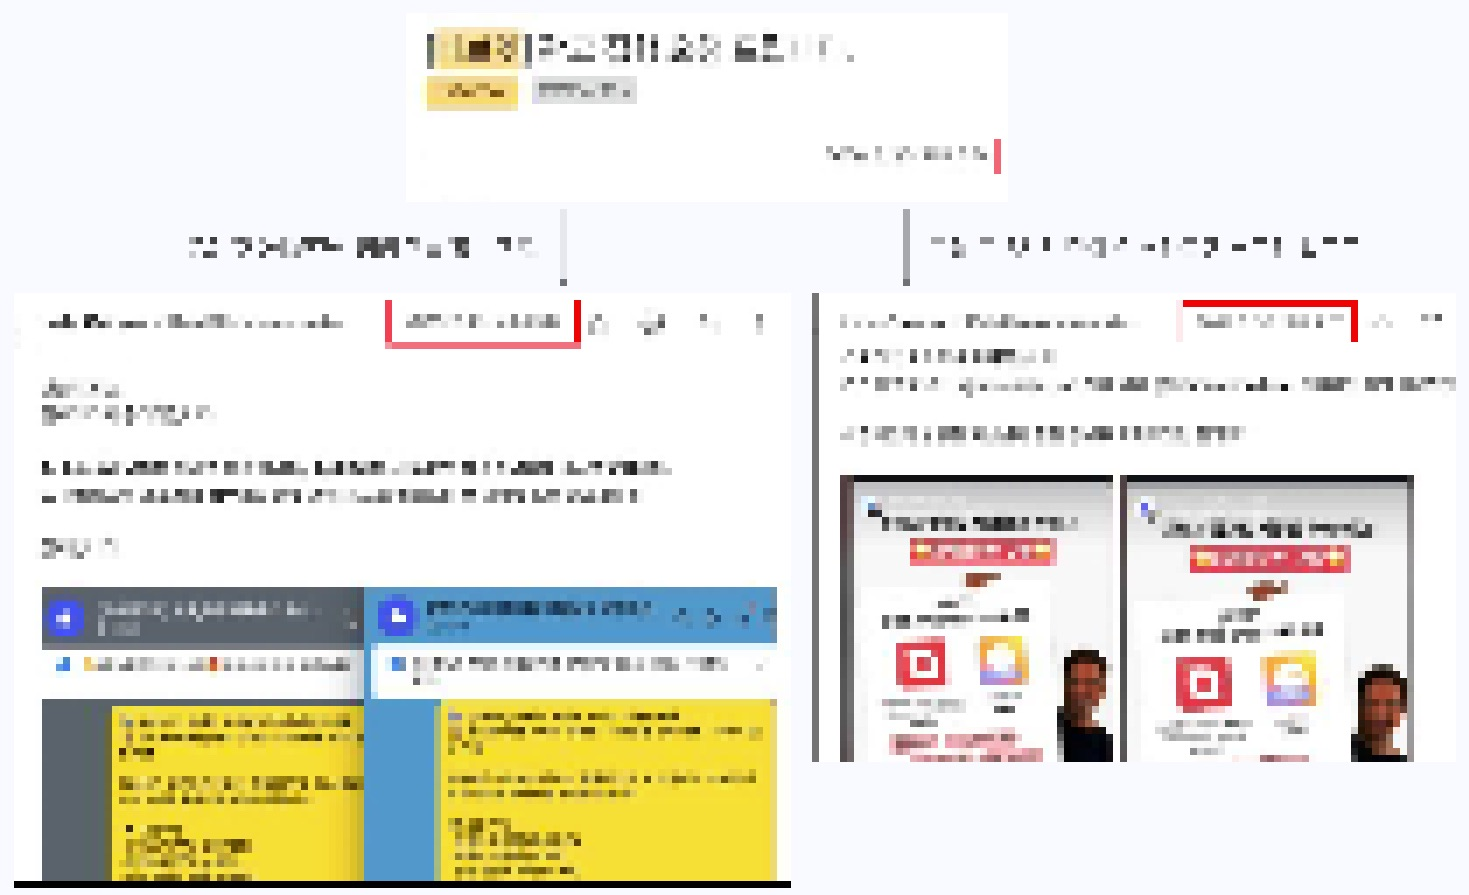
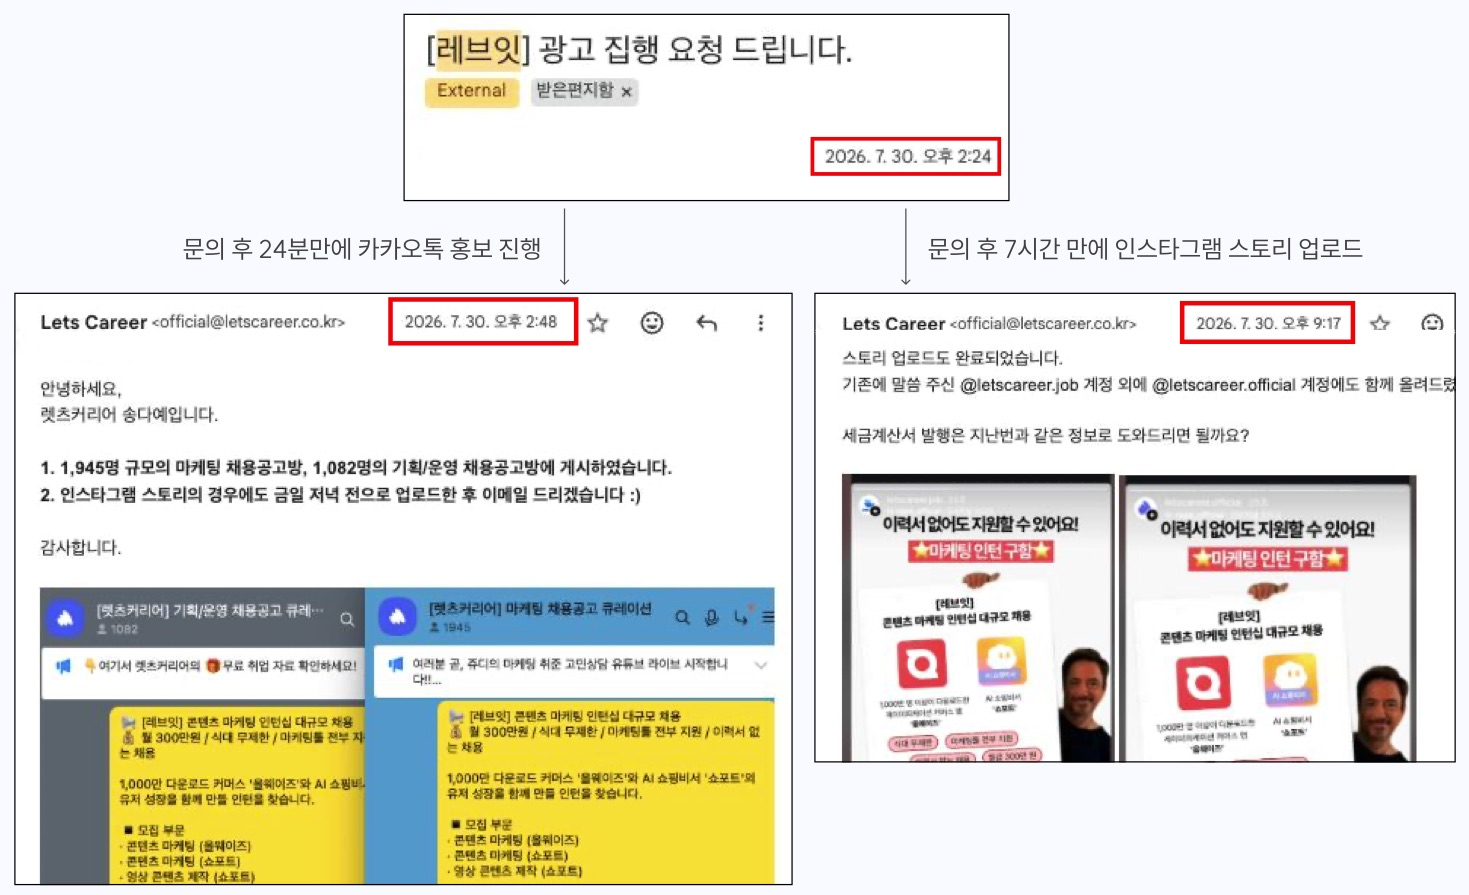
style(ui): biz 고객 사례 이미지의 모자이크를 뺀다

diff --git a/apps/business/src/widgets/landing/LandingPage.tsx b/apps/business/src/widgets/landing/LandingPage.tsx
@@ -442,7 +442,7 @@ function Partners() {
   );
 }
 
-/** 고객 사례 5건(소개서 17~21쪽). 소재는 모자이크한 이미지라 분위기만 보이고, 숫자 성과를 앞에 둔다. */
+/** 고객 사례 5건(소개서 17~21쪽). 실제 집행 소재와 숫자 성과를 함께 보인다. */
 function Cases() {
   return (
     <section className={cn(CONTAINER, 'pb-16 md:pb-24')}>
@@ -451,7 +451,7 @@ function Cases() {
         먼저 집행한 기업들의 결과예요
       </h2>
       <p data-reveal className="mt-4 text-gray-600">
-        실제 집행 소재는 모자이크했어요. 자세한 사례는{' '}
+        렛츠커리어가 직접 만들어 집행한 소재와 결과예요. 자세한 사례는{' '}
         <a
           href={AD_INTRODUCTION_PDF}
           target="_blank"

diff --git a/apps/business/src/widgets/landing/content.ts b/apps/business/src/widgets/landing/content.ts
@@ -546,8 +546,8 @@ export const FAQ = [
 ];
 
 /**
- * 고객 사례 5건. 소개서 17~21쪽을 옮겼다(2026-11-10 사용자). 이미지는 그 쪽의 실제 집행 소재를 모자이크한 것이라
- * 소재의 큰 제목 모양만 보이고 세부 글씨는 읽히지 않는다(`public/landing/cases`).
+ * 고객 사례 5건. 소개서 17~21쪽을 옮겼다(2026-11-10 사용자). 이미지는 그 쪽의 실제 집행 소재를 잘라 낸 것이다
+ * (`public/landing/cases`). 처음에는 모자이크했다가 회사명이 이미 드러나 가릴 이유가 없어 뺐다.
  */
 export const CASES = [
   {
